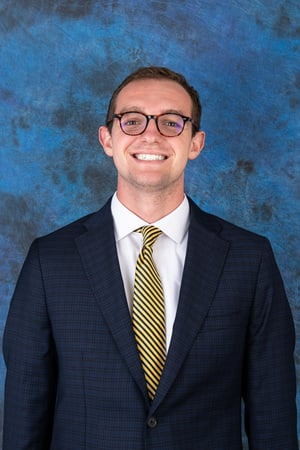
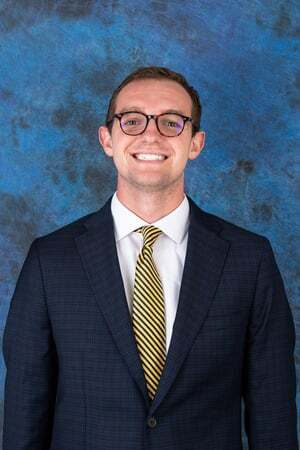
updated end of season awards and eboard

diff --git a/src/pages/about/about.module.css b/src/pages/about/about.module.css
@@ -39,8 +39,8 @@
 }
 
 .executiveHeadshot {
-    width: 5rem;
-    height: 7rem;
+    width: 15rem;
+    height: 21rem;
 }
 
 @media (max-width:900px) {
